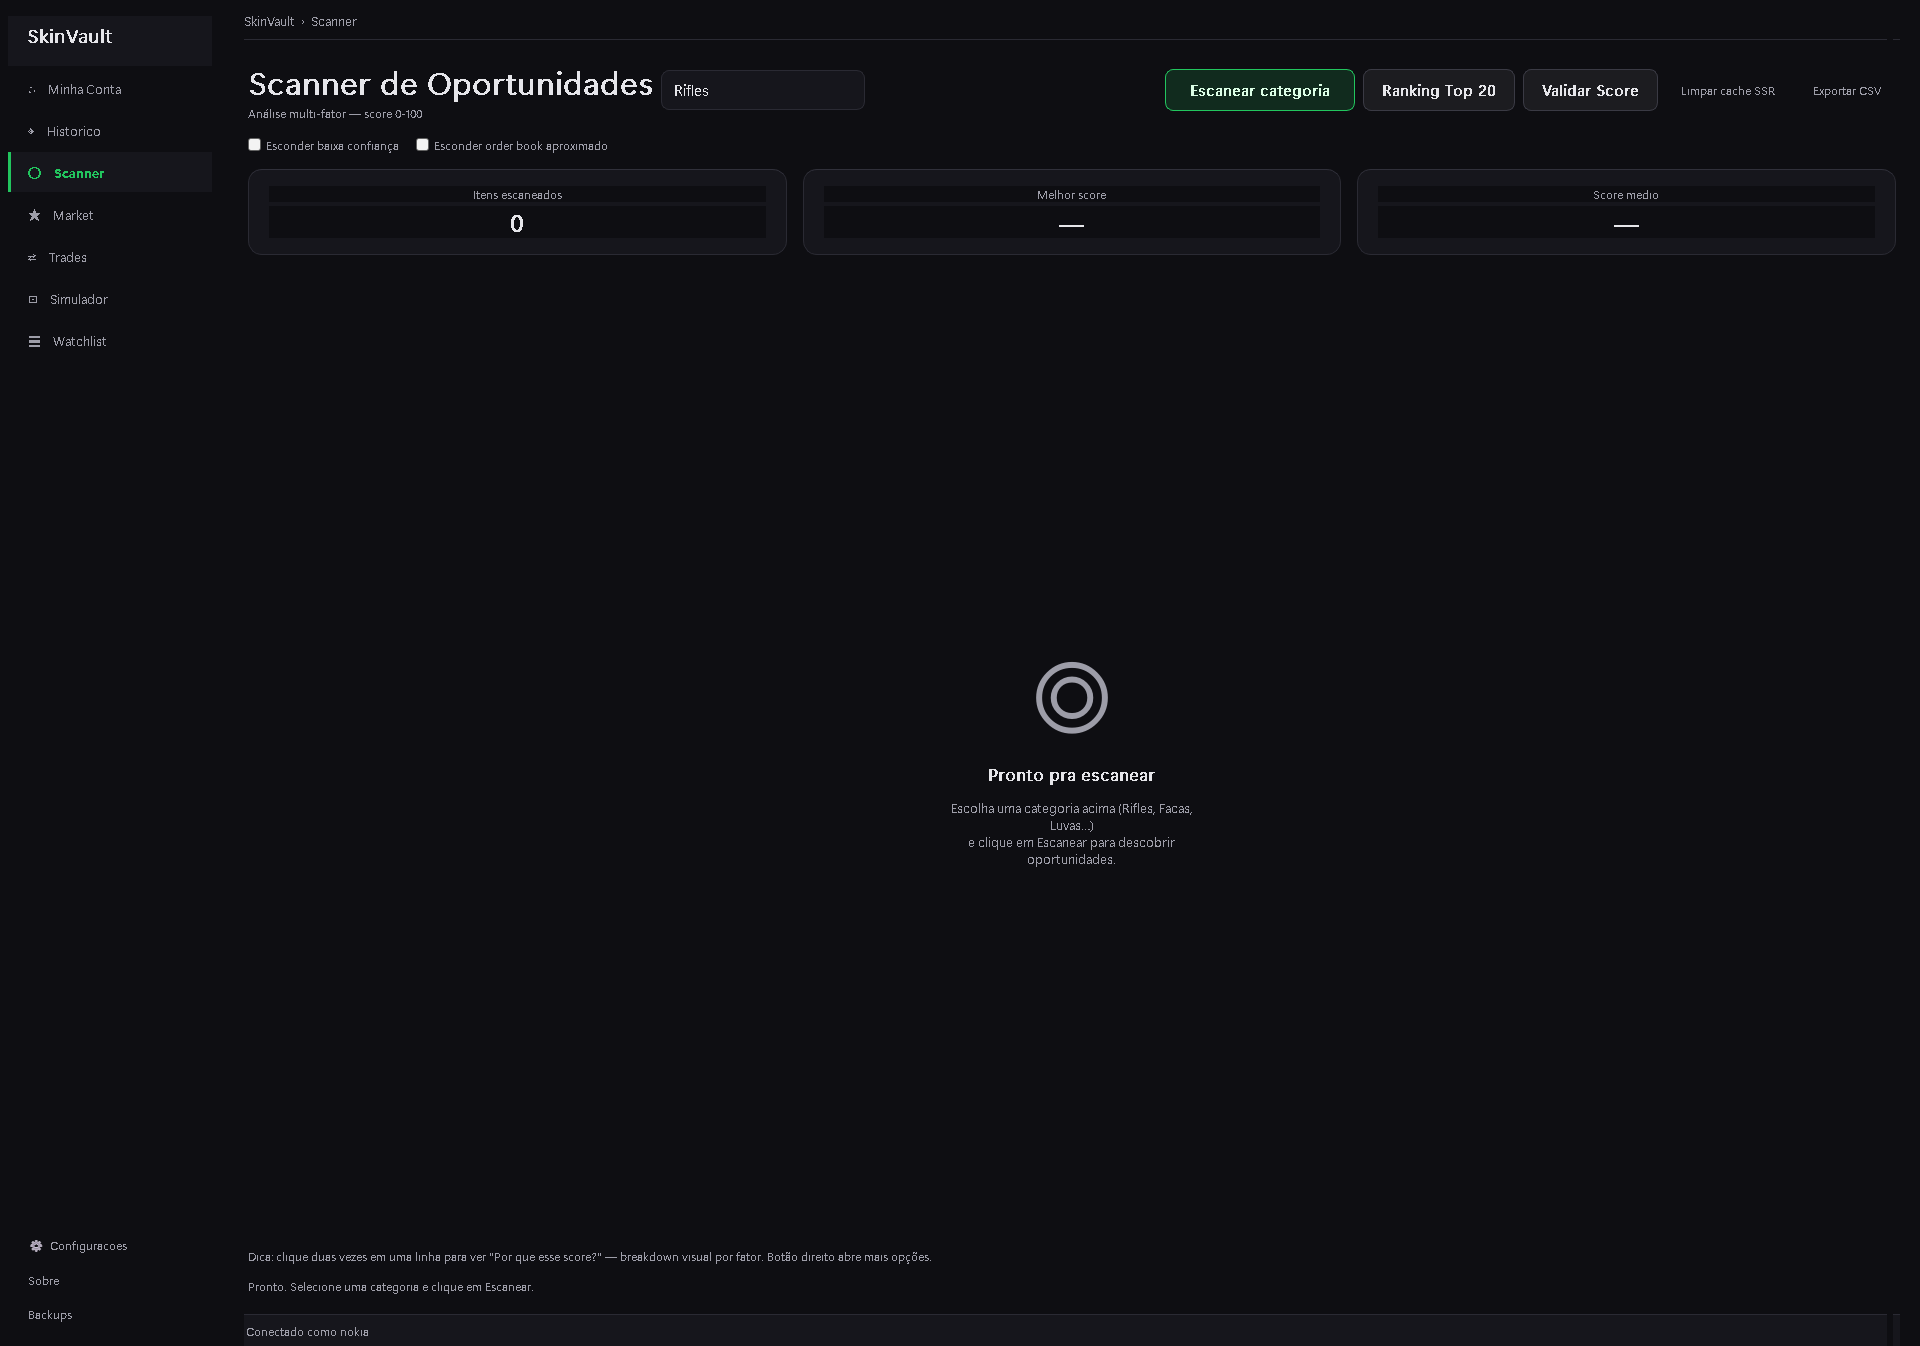
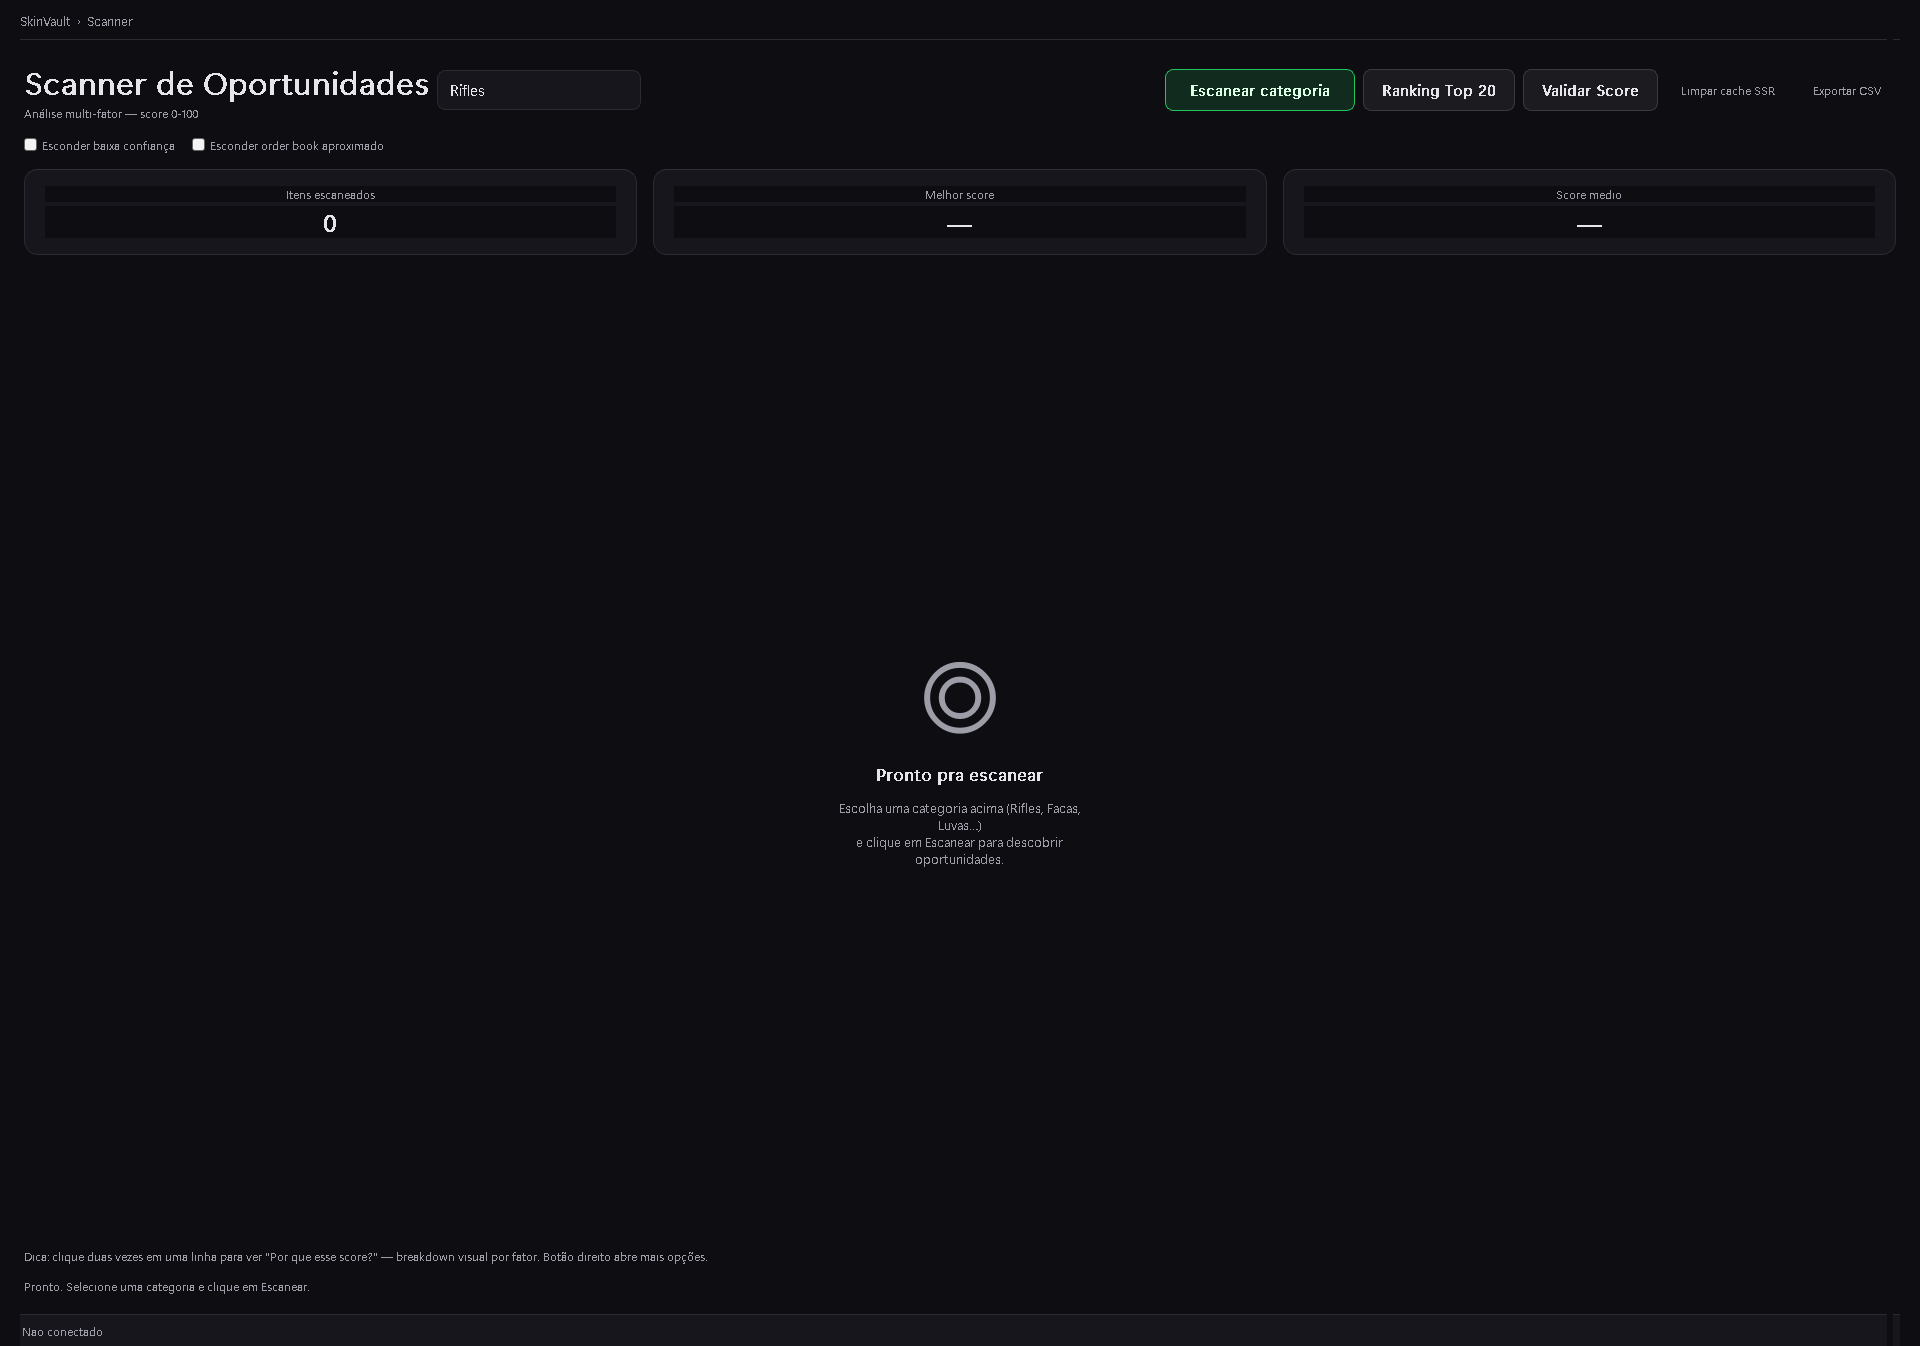
ui: QSS com seletor no root — fim das tarjas atras de labels + titlebar dark
3 sites (MainWindow _apply_stylesheet, SettingsDialog, BackupDialog)
migrados de QSS sem seletor (que propagava background para todos os
descendentes) para QMainWindow/QDialog { background } + * { color/font }.
Toast label band-aid background:transparent removido (components.py:796).
Titlebar escura via DWM adicionada nas 3 janelas via _set_dark_titlebar().
Live theme reload conferido sem regressao. 1309 tests verdes.
Screenshots regenerados como novo baseline.

Changed region(s): [[0.4688, 0.4993, 0.5938, 0.6553], [0.0, 0.0624, 0.3438, 0.1248], [0.0, 0.0, 0.0625, 0.0312]]

diff --git a/skinvault/gui.py b/skinvault/gui.py
@@ -71,6 +71,23 @@ THEMES = {
 }
 
 
+def _set_dark_titlebar(window: QWidget) -> None:
+    """Escurece a titlebar no Windows 11/10 via DWM.
+
+    Falha silenciosa em SOs antigos ou sem ctypes.
+    """
+    try:
+        import ctypes
+        hwnd = int(window.winId())
+        for attr in (20, 19):
+            if ctypes.windll.dwmapi.DwmSetWindowAttribute(
+                    hwnd, attr, ctypes.byref(ctypes.c_int(1)),
+                    ctypes.sizeof(ctypes.c_int)) == 0:
+                break
+    except Exception:
+        pass
+
+
 def _brl(v: float) -> str:
     return f"R$ {v:,.2f}".replace(",", "X").replace(".", ",").replace("X", ".")
 
@@ -167,8 +184,11 @@ class SettingsDialog(QDialog):
         self._settings = load_settings()
         self.setWindowTitle("Configuracoes")
         self.resize(420, 300)
-        self.setStyleSheet(f"background: {_BG}; color: {_TEXT};"
-                           " font-family: 'Segoe UI';")
+        self.setStyleSheet(
+            f"QDialog {{ background: {_BG}; }}"
+            f"* {{ color: {_TEXT}; font-family: 'Segoe UI'; }}"
+        )
+        _set_dark_titlebar(self)
         self._build()
 
     def _build(self) -> None:
@@ -298,8 +318,11 @@ class BackupDialog(QDialog):
         super().__init__(parent)
         self.setWindowTitle("Gerenciar Backups")
         self.resize(520, 360)
-        self.setStyleSheet(f"background: {_BG}; color: {_TEXT};"
-                           " font-family: 'Segoe UI';")
+        self.setStyleSheet(
+            f"QDialog {{ background: {_BG}; }}"
+            f"* {{ color: {_TEXT}; font-family: 'Segoe UI'; }}"
+        )
+        _set_dark_titlebar(self)
         self._build()
 
     def _build(self) -> None:
@@ -549,6 +572,7 @@ class MainWindow(QMainWindow):
             self._center_on_screen()
 
         self._apply_stylesheet()
+        _set_dark_titlebar(self)
         # Modo overlay: nao rouba foco de jogos fullscreen (CS2, etc).
         # Combina stays-on-top + WA_ShowWithoutActivating pra que a
         # janela apareca sobre o jogo sem minimiza-lo.
@@ -591,8 +615,9 @@ class MainWindow(QMainWindow):
 
     def _apply_stylesheet(self) -> None:
         self.setStyleSheet(
-            f"background: {_BG}; color: {_TEXT};"
-            "font-family: 'Segoe UI Variable Display', 'Segoe UI', system-ui;"
+            f"QMainWindow {{ background: {_BG}; }}"
+            f"* {{ color: {_TEXT};"
+            f" font-family: 'Segoe UI Variable Display', 'Segoe UI', system-ui; }}"
         )
 
     def _apply_overlay_flags(self, enable: bool) -> None:

diff --git a/skinvault/ui/components.py b/skinvault/ui/components.py
@@ -793,8 +793,7 @@ class Toast(QWidget):
         lbl = QLabel(text)
         lbl.setStyleSheet(
             f"color: {t.TEXT}; font-size: {t.FS_BODY};"
-            f" font-family: {t.FONT_FAMILY}; background: transparent;"
-            f" border: none;"
+            f" font-family: {t.FONT_FAMILY};"
         )
         lbl.setWordWrap(True)
         lay.addWidget(lbl)

diff --git a/ROADMAP_UI.md b/ROADMAP_UI.md
@@ -398,7 +398,7 @@ Ajuda futuro agente / contribuidor a entender o design system rapidamente.
 >
 > **Ordem**: M primeiro e sozinha (invalida screenshots anteriores — todas as outras frentes validam visual contra o baseline pós-M). Depois N/O/P/Q/R/S em paralelo. T e U dependem de N. V por último.
 
-### Frente M — Matar a propagação de QSS global: as "tarjas" atrás de todo label (esforço: 1-2h, impact: ALTÍSSIMO) [deps: nenhuma — RODAR PRIMEIRO]
+~~### Frente M — Matar a propagação de QSS global: as "tarjas" atrás de todo label (esforço: 1-2h, impact: ALTÍSSIMO) [deps: nenhuma — RODAR PRIMEIRO]~~ ✅
 
 **Problema**: `gui.py::MainWindow._apply_stylesheet` (grep `def _apply_stylesheet`) aplica `self.setStyleSheet(f"background: {_BG}; color: {_TEXT}; font-family: ...")` **sem seletor**. QSS sem seletor propaga a TODOS os descendentes: cada `QLabel` da aplicação herda `background: #0E0E12` e pinta uma tarja escura atrás do texto — sobre cards `#16161C` isso cria as faixas visíveis em TODOS os StatCards, títulos de seção e captions de TODAS as telas (qualquer print em `prints/` mostra). É o maior ofensor visual do app. Mesmo bug em `SettingsDialog.__init__` e `BackupsDialog.__init__` (grep `setStyleSheet(f"background: {_BG}` em `gui.py` — 3 sites no total).
 
@@ -435,6 +435,8 @@ Ajuda futuro agente / contribuidor a entender o design system rapidamente.
 **Aceite**: screenshots novos das 7 telas sem NENHUMA tarja atrás de label (comparar 01/05/06 antes/depois — os mais afetados); botões/inputs/tabelas visualmente idênticos ao estado anterior; titlebar escura; suíte 100% verde.
 
 **Validação**: §4.3 completo + regenerar TODOS os prints (novo baseline). Commit: `ui: QSS com seletor no root — fim das tarjas atras de labels + titlebar dark`.
+
+**Resultado**: 3 sites (MainWindow `_apply_stylesheet`, SettingsDialog, BackupDialog) migrados para QSS com seletor — `background` restrito ao container (`QMainWindow`/`QDialog`), `color+font` via `*` universal. Toast label band-aid `background: transparent` removido (components.py:796). Titlebar escura via DWM adicionada nas 3 janelas via `_set_dark_titlebar()`. Live theme reload conferido — `_on_theme_changed` reaplica o stylesheet normalmente, sidebar dock sem regressão. Audit de `background: transparent` nos 8 sites: 7 legítimos (btn_ghost, chips, sidebar items, segmented control, history clear, simulador chip), 1 band-aid removido (Toast). 1309 tests verdes. Screenshots regenerados como novo baseline — conferência visual pendente (agente não suporta imagem).
 
 ### Frente N — PageHeader compacto e consistente nas 7 telas (esforço: 2-3h, impact: alto) [deps: M]
 
